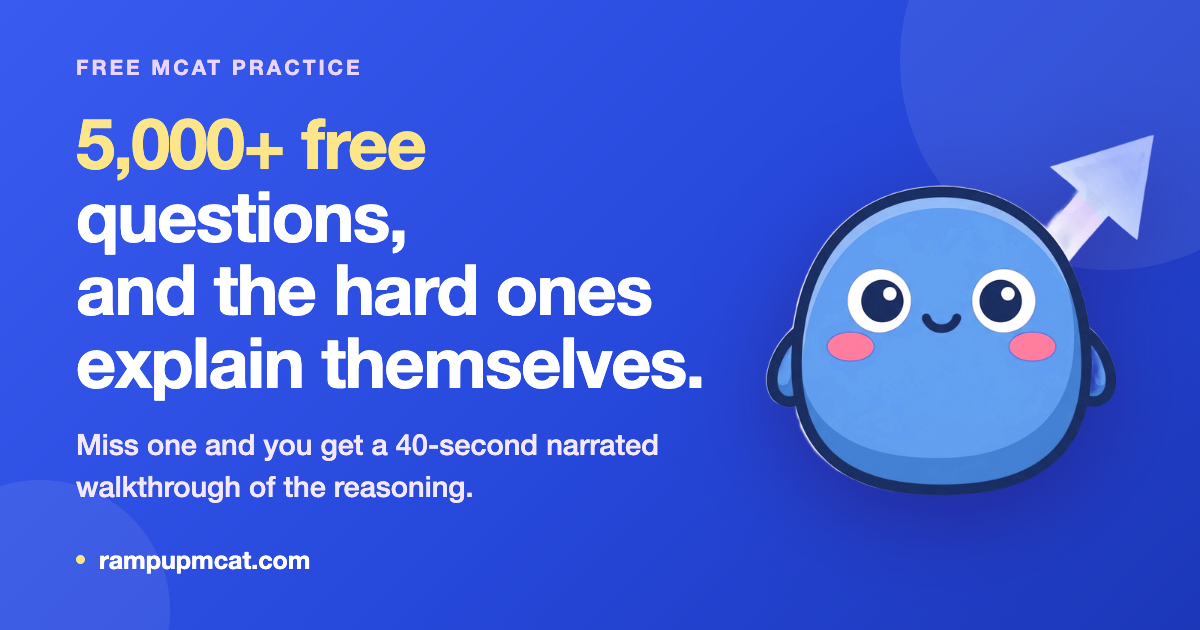
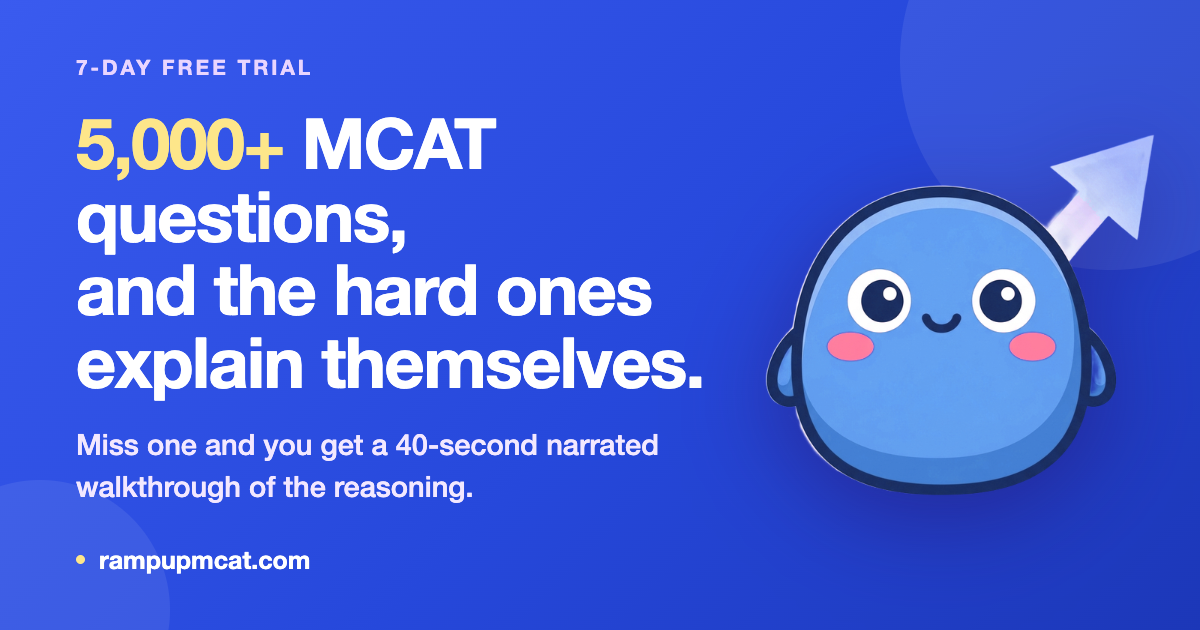
Share card: drop false 'free questions' claim — it's a paid app (7-day trial, $19.99/mo, no free tier). Eyebrow now '7-day free trial', headline '5,000+ MCAT questions'

Changed region(s): [[0.2467, 0.181, 0.4317, 0.2714], [0.0617, 0.0905, 0.3083, 0.1206]]

diff --git a/assets/og-card.src.html b/assets/og-card.src.html
@@ -38,8 +38,8 @@
 <body>
   <div class="orb a"></div><div class="orb b"></div>
   <div class="copy">
-    <span class="eyebrow">Free MCAT practice</span>
-    <h1><span class="free">5,000+ free</span> questions,<br>and the hard ones<br>explain themselves.</h1>
+    <span class="eyebrow">7-day free trial</span>
+    <h1><span class="free">5,000+</span> MCAT questions,<br>and the hard ones<br>explain themselves.</h1>
     <p>Miss one and you get a 40-second narrated<br>walkthrough of the reasoning.</p>
     <div class="foot"><span class="dot"></span>rampupmcat.com</div>
   </div>
